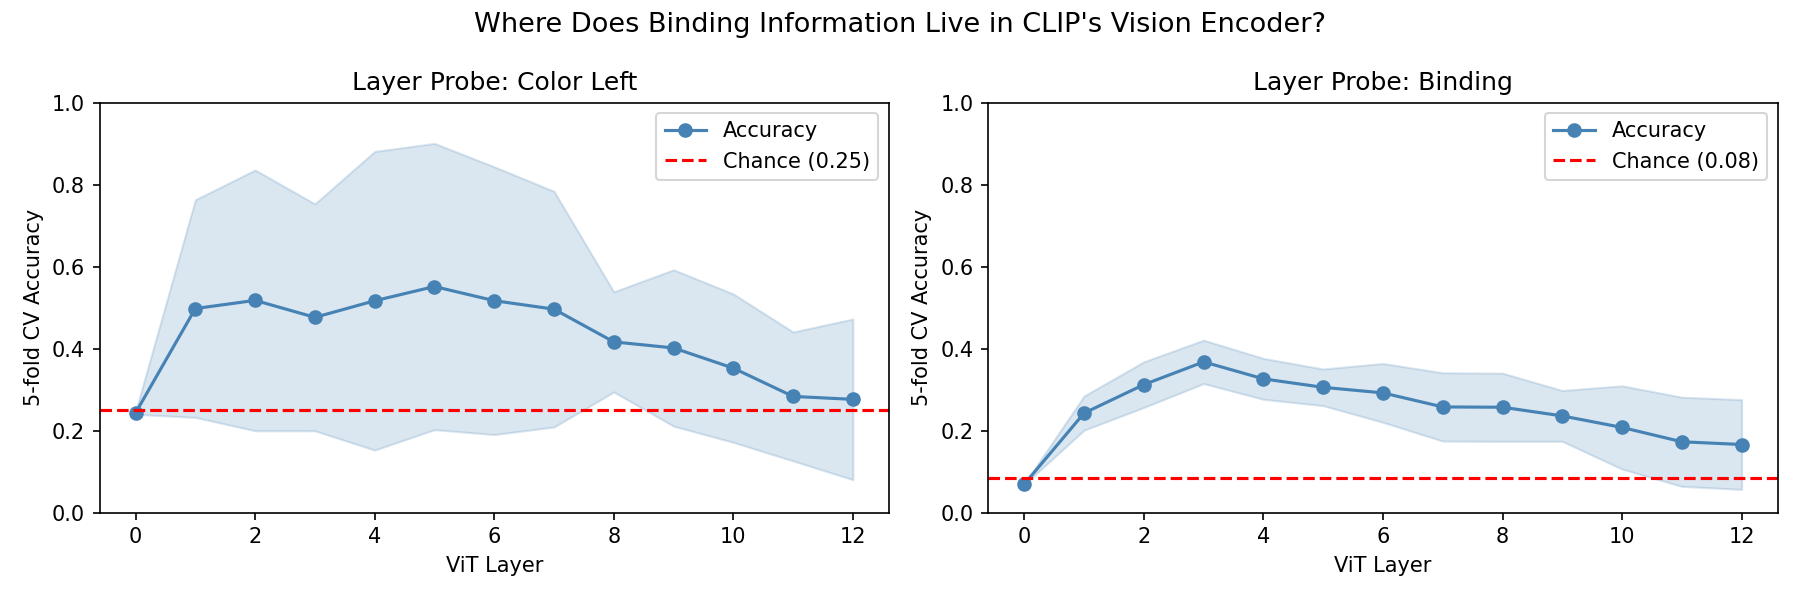
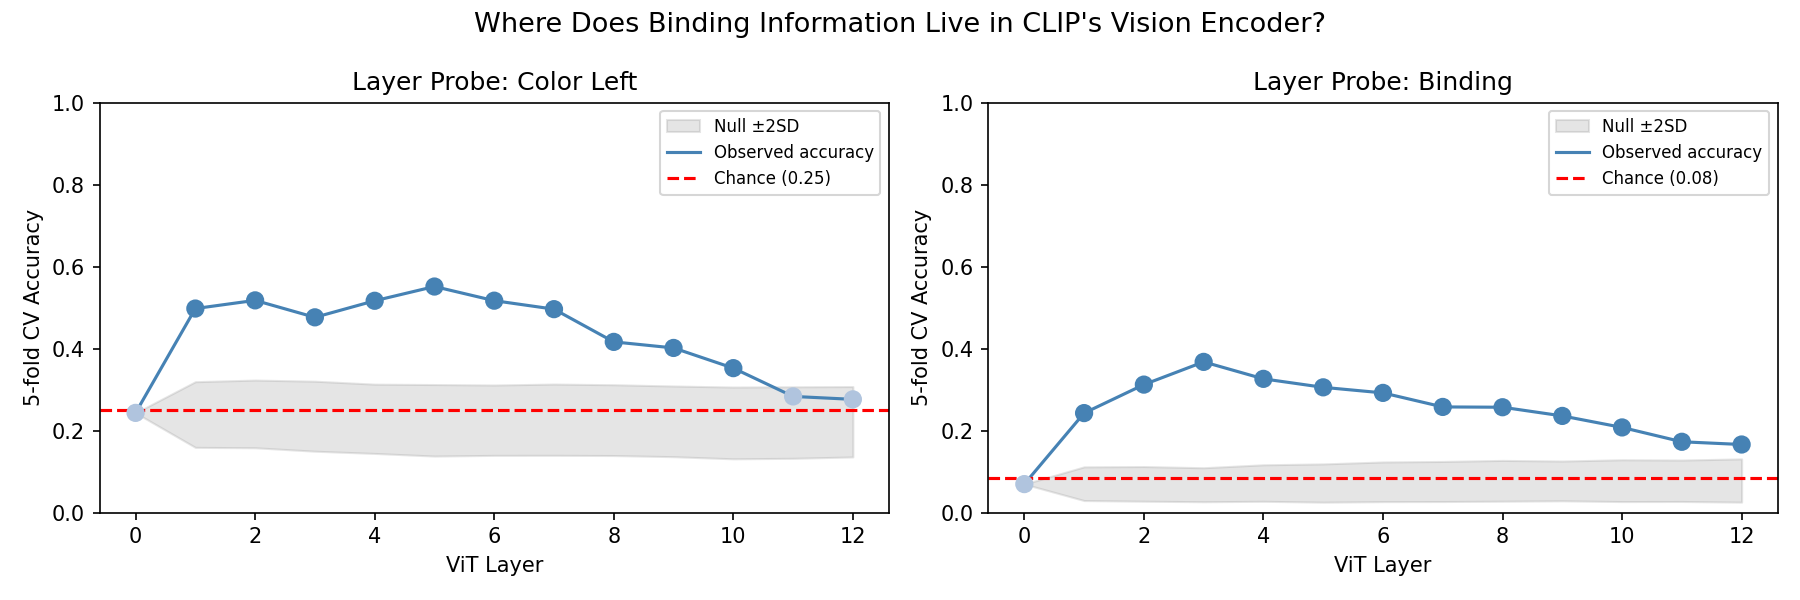
Add permutation test to layer probe
1000-permutation null distribution confirms binding info in layers 1-10
is statistically significant (p<0.001). Final layers 11-12 fall back to
chance, confirming binding erasure is real.

diff --git a/analysis/layer_probe.py b/analysis/layer_probe.py
@@ -51,7 +51,8 @@ def run():
     pair_indices = np.array(pair_indices)
     n_layers     = layer_feats.shape[1]
 
-    results = {"color_left": [], "binding": []}
+    N_PERM   = 1000
+    results  = {"color_left": [], "binding": []}
 
     for layer_i in range(n_layers):
         X = layer_feats[pair_indices, layer_i, :]   # (N_pairs, D)
@@ -60,17 +61,36 @@ def run():
             le  = LabelEncoder()
             y   = le.fit_transform(y_raw)
             clf = LogisticRegression(max_iter=1000)
+
+            # Observed accuracy
             scores = cross_val_score(clf, X, y, cv=5, scoring="accuracy")
+            observed = float(scores.mean())
+
+            # Permutation null distribution
+            null_accs = []
+            rng = np.random.default_rng(42)
+            for _ in range(N_PERM):
+                y_shuf  = rng.permutation(y)
+                s       = cross_val_score(clf, X, y_shuf, cv=5, scoring="accuracy")
+                null_accs.append(s.mean())
+            null_accs = np.array(null_accs)
+            p_val = float(np.mean(null_accs >= observed))
+
             results[task_name].append({
                 "layer":    layer_i,
-                "accuracy": float(scores.mean()),
+                "accuracy": observed,
                 "std":      float(scores.std()),
                 "chance":   float(1 / len(le.classes_)),
+                "p_value":  p_val,
+                "null_mean": float(null_accs.mean()),
+                "null_std":  float(null_accs.std()),
             })
 
         print(f"  Layer {layer_i:2d}: color_left acc = "
-              f"{results['color_left'][-1]['accuracy']:.3f}  "
-              f"binding acc = {results['binding'][-1]['accuracy']:.3f}")
+              f"{results['color_left'][-1]['accuracy']:.3f} "
+              f"(p={results['color_left'][-1]['p_value']:.3f})  "
+              f"binding acc = {results['binding'][-1]['accuracy']:.3f} "
+              f"(p={results['binding'][-1]['p_value']:.3f})")
 
     with open(OUT_JSON, "w") as f:
         json.dump(results, f, indent=2)
@@ -90,21 +110,29 @@ def _plot(results, n_layers):
     fig, axes = plt.subplots(1, 2, figsize=(12, 4))
 
     for ax, task_name in zip(axes, ["color_left", "binding"]):
-        accs    = [r["accuracy"] for r in results[task_name]]
-        stds    = [r["std"]      for r in results[task_name]]
-        chance  = results[task_name][0]["chance"]
-        layers  = list(range(n_layers))
+        accs       = [r["accuracy"]  for r in results[task_name]]
+        null_means = [r["null_mean"] for r in results[task_name]]
+        null_stds  = [r["null_std"]  for r in results[task_name]]
+        p_vals     = [r["p_value"]   for r in results[task_name]]
+        chance     = results[task_name][0]["chance"]
+        layers     = list(range(n_layers))
 
-        ax.plot(layers, accs, marker="o", color="steelblue", label="Accuracy")
+        # Null band
         ax.fill_between(layers,
-                        [a - s for a, s in zip(accs, stds)],
-                        [a + s for a, s in zip(accs, stds)],
-                        alpha=0.2, color="steelblue")
+                        [m - 2*s for m, s in zip(null_means, null_stds)],
+                        [m + 2*s for m, s in zip(null_means, null_stds)],
+                        alpha=0.2, color="gray", label="Null ±2SD")
+
+        # Observed — color by significance
+        colors = ["steelblue" if p < 0.05 else "lightsteelblue" for p in p_vals]
+        ax.scatter(layers, accs, c=colors, zorder=5, s=60)
+        ax.plot(layers, accs, color="steelblue", linewidth=1.5, label="Observed accuracy")
+
         ax.axhline(chance, color="red", linestyle="--", label=f"Chance ({chance:.2f})")
         ax.set_xlabel("ViT Layer")
         ax.set_ylabel("5-fold CV Accuracy")
         ax.set_title(f"Layer Probe: {task_name.replace('_', ' ').title()}")
-        ax.legend()
+        ax.legend(fontsize=8)
         ax.set_ylim(0, 1)
 
     fig.suptitle("Where Does Binding Information Live in CLIP's Vision Encoder?", fontsize=13)
